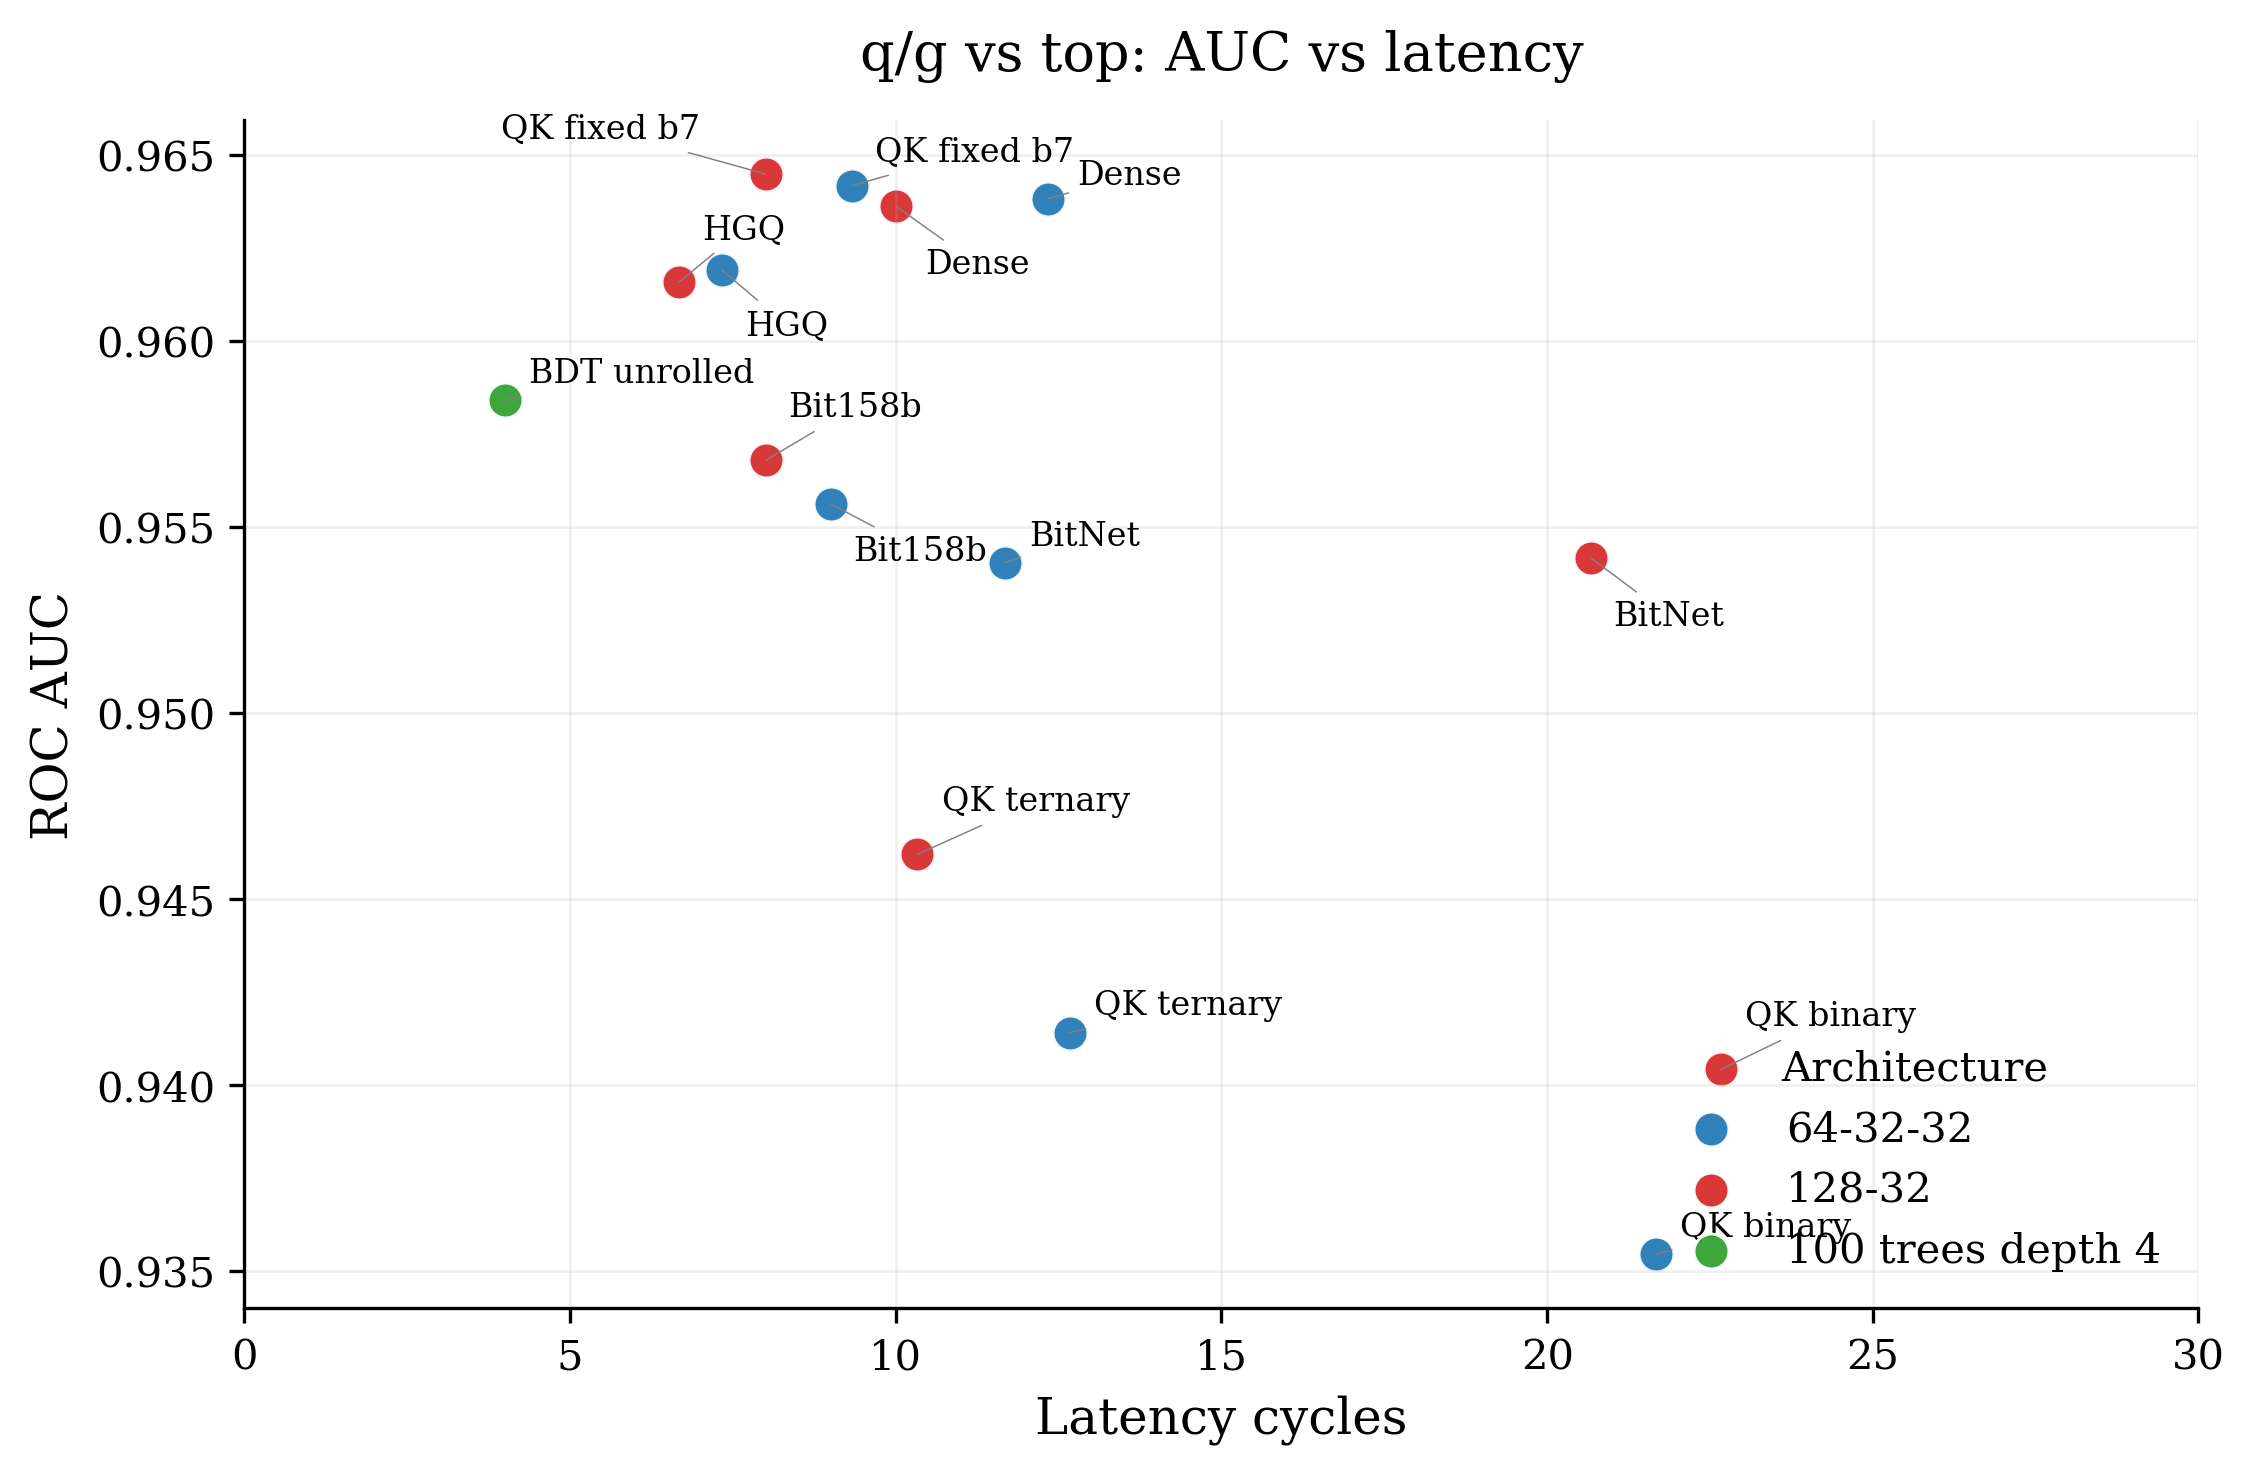
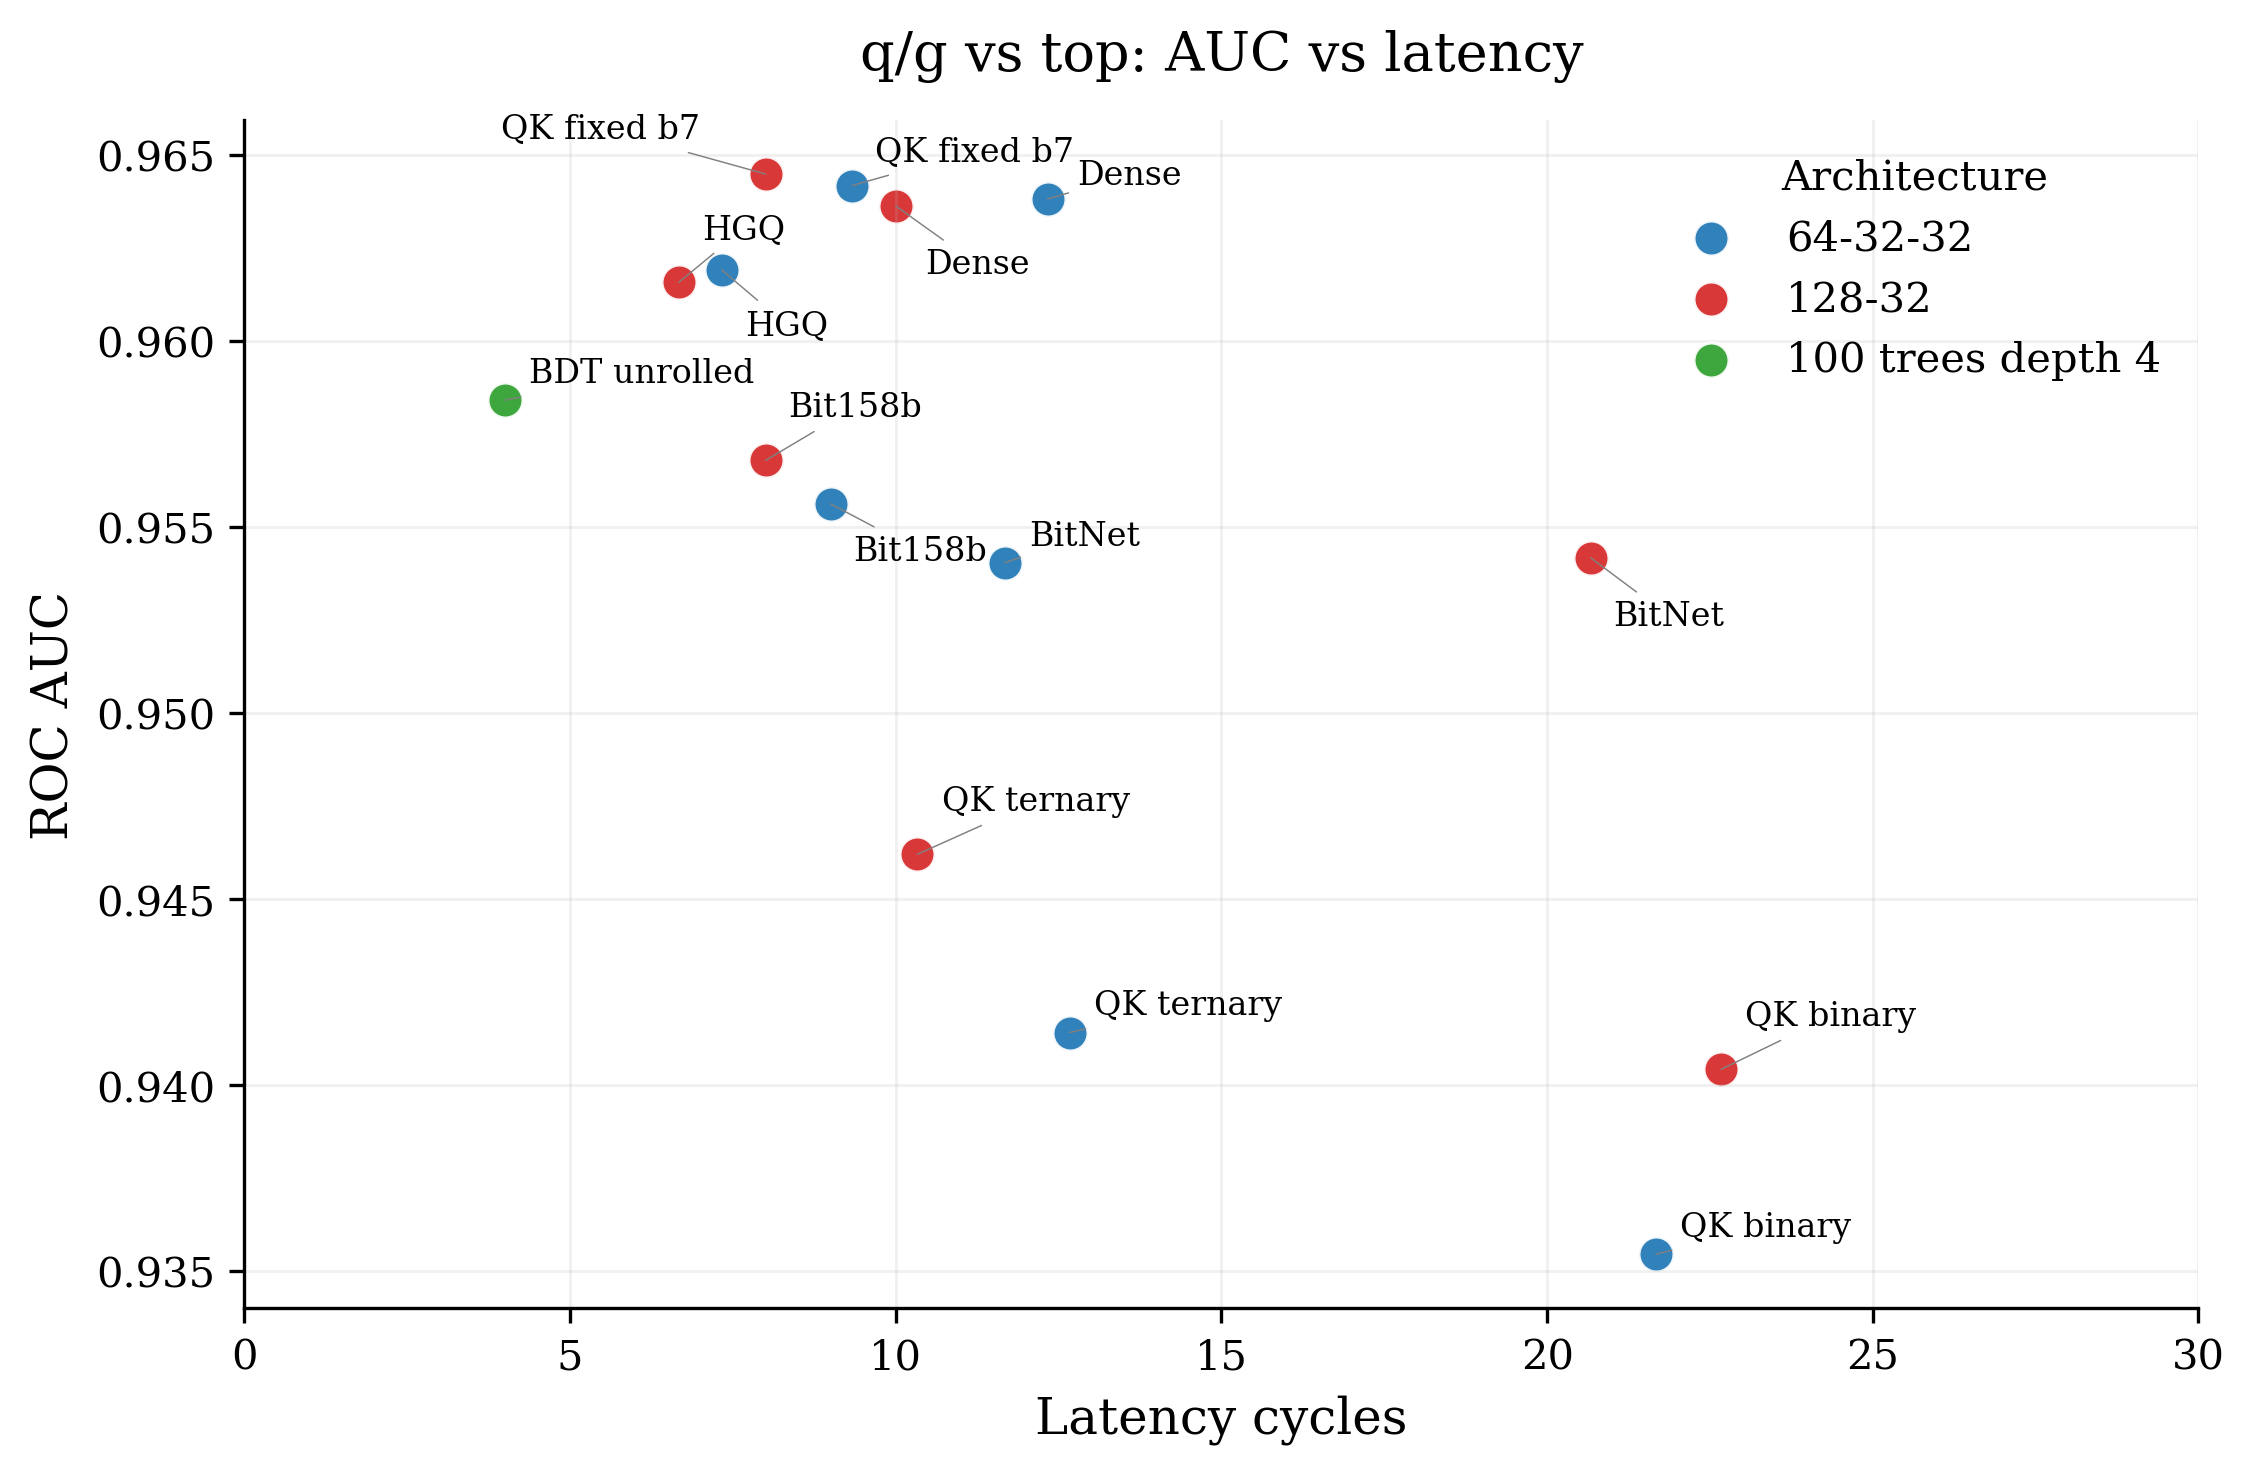
Restore abstract-style Pareto legend placement

Changed region(s): [[0.7453, 0.7178, 0.9627, 0.8738], [0.8075, 0.0936, 0.9627, 0.2497], [0.7453, 0.156, 0.7764, 0.2497]]

diff --git a/scripts/generate_benchmark_artifacts.py b/scripts/generate_benchmark_artifacts.py
@@ -845,8 +845,7 @@ def plot_scatter(
     ax.grid(True, alpha=0.18, linewidth=0.7)
     if annotate and labeled_rows:
         annotate_without_overlap(ax, labeled_rows, x_key, y_key)
-    legend_loc = "lower right" if color_by_arch else "best"
-    ax.legend(frameon=False, loc=legend_loc, title="Architecture" if color_by_arch else None)
+    ax.legend(frameon=False, loc="best", title="Architecture" if color_by_arch else None)
     fig.savefig(path, dpi=300, bbox_inches="tight")
     plt.close(fig)
 

diff --git a/scripts/reproduce_public_artifacts.py b/scripts/reproduce_public_artifacts.py
@@ -241,7 +241,7 @@ def plot_pareto(
     if x_key == "lut_mean":
         ax.xaxis.set_major_formatter(FuncFormatter(lambda value, _pos: f"{int(round(value / 1000.0))}k"))
     ax.grid(True, alpha=0.18, linewidth=0.7)
-    ax.legend(frameon=False, loc="lower right", title="Architecture")
+    ax.legend(frameon=False, loc="best", title="Architecture")
     output.parent.mkdir(parents=True, exist_ok=True)
     fig.savefig(output, dpi=300, bbox_inches="tight")
     plt.close(fig)
